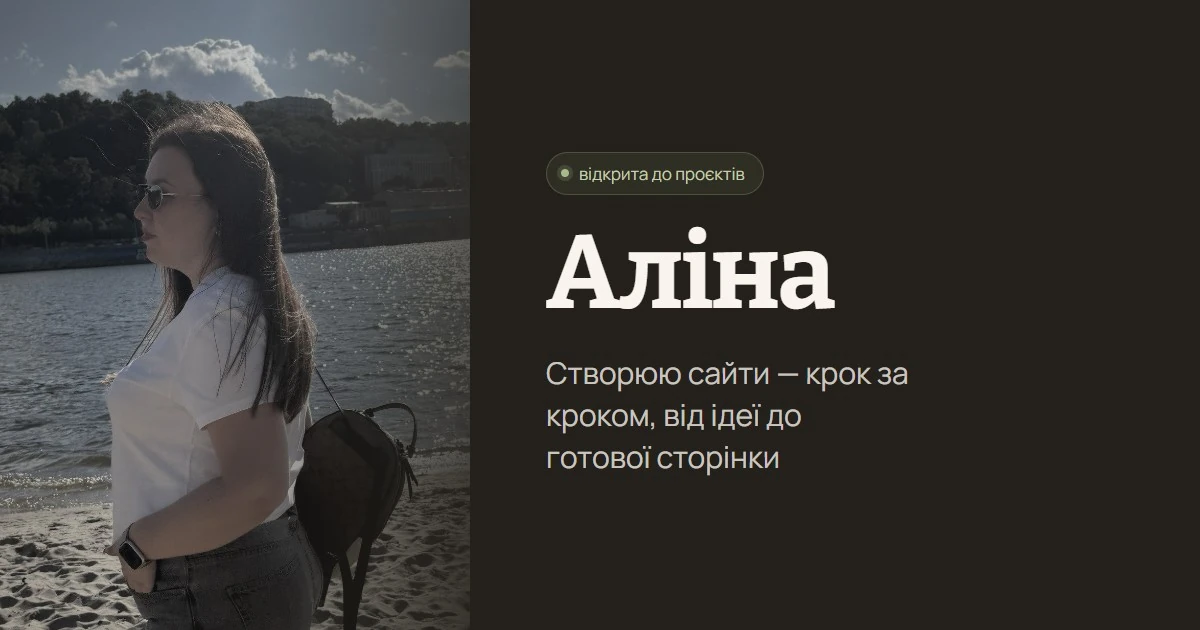
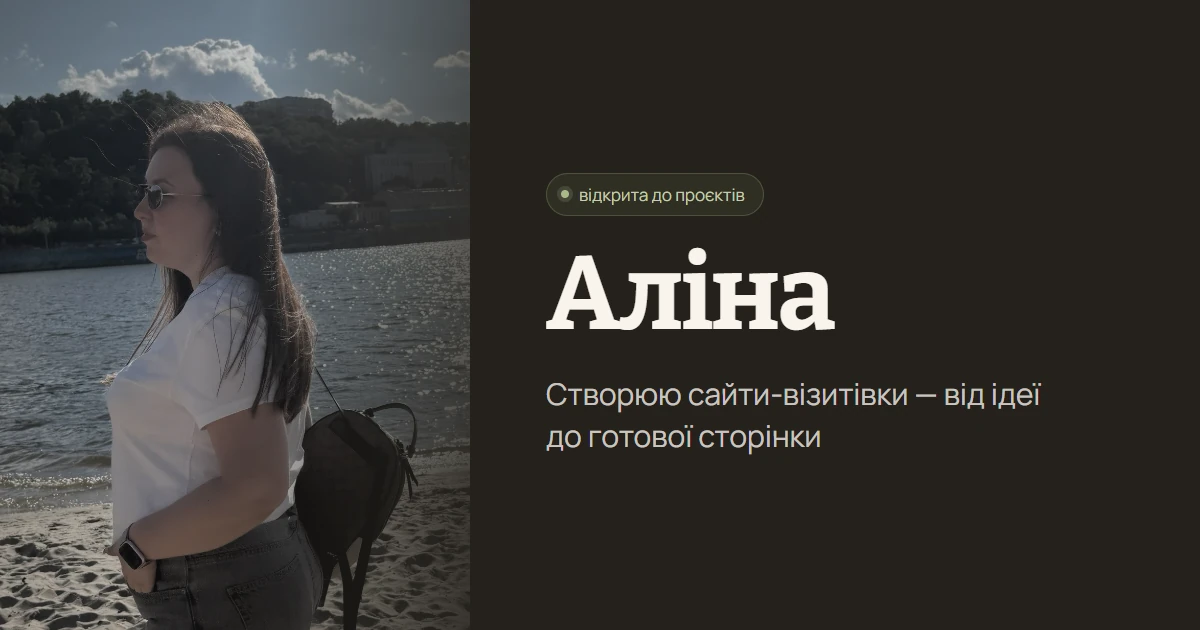
Уточнено, які саме сайти я роблю
Замовник із розбору тексту не розумів, який тип сайтів пропонується.
Підзаголовок, description і og:description тепер кажуть «сайти-візитівки».
Перемальовано картинку прев'ю, щоб текст на ній збігався зі сторінкою.

Changed region(s): [[0.4317, 0.573, 0.8633, 0.754], [0.4317, 0.3619, 0.7092, 0.5429], [0.4625, 0.2413, 0.6167, 0.3317]]

diff --git a/index.html b/index.html
@@ -4,14 +4,14 @@
   <meta charset="UTF-8">
   <meta name="viewport" content="width=device-width, initial-scale=1">
   <title>Аліна — створюю сайти</title>
-  <meta name="description" content="Створюю сайти крок за кроком: від ідеї до готової сторінки.">
+  <meta name="description" content="Створюю сайти-візитівки крок за кроком: від ідеї до готової сторінки.">
   <meta name="theme-color" content="#24211c">
   <link rel="icon" href="assets/favicon.svg" type="image/svg+xml">
 
   <!-- Превʼю для месенджерів і соцмереж -->
   <meta property="og:type" content="website">
   <meta property="og:title" content="Аліна — створюю сайти">
-  <meta property="og:description" content="Створюю сайти крок за кроком: від ідеї до готової сторінки.">
+  <meta property="og:description" content="Створюю сайти-візитівки крок за кроком: від ідеї до готової сторінки.">
   <meta property="og:image" content="https://alinacodes-star.github.io/images/og.webp">
   <meta property="og:image:width" content="1200">
   <meta property="og:image:height" content="630">
@@ -54,7 +54,7 @@
 
         <h1 class="hero__title">Аліна</h1>
 
-        <p class="hero__subtitle">Створюю сайти — крок за кроком, від ідеї до готової сторінки</p>
+        <p class="hero__subtitle">Створюю сайти-візитівки — від ідеї до готової сторінки</p>
 
         <a class="btn hero__cta" href="https://github.com/AlinaCodes-star" target="_blank" rel="noopener">
           Написати мені <span class="btn__arrow" aria-hidden="true">→</span>
